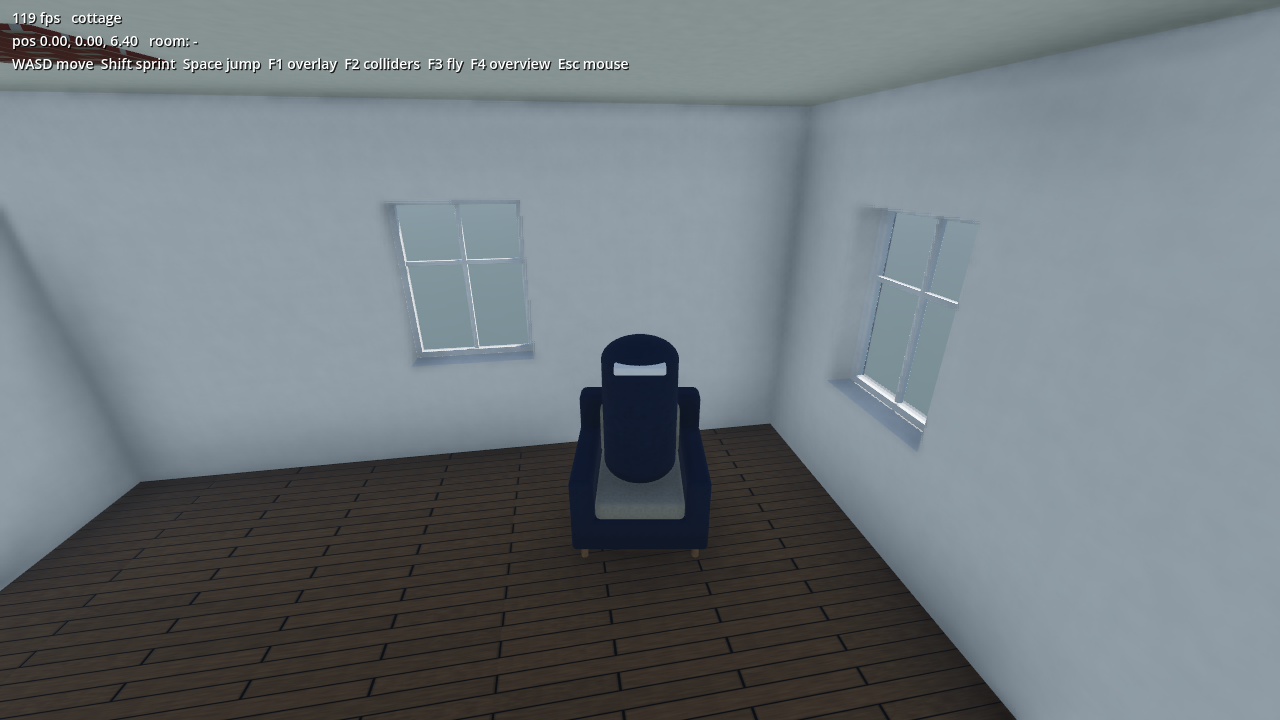
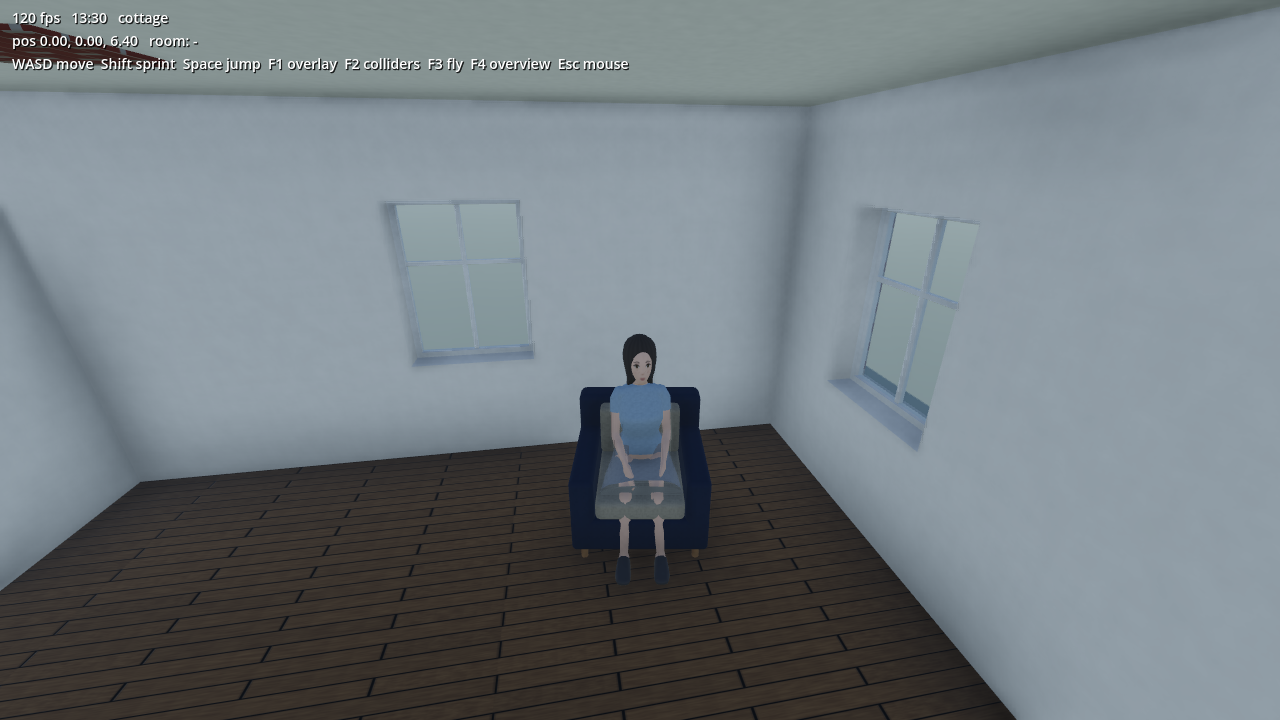
Milestone: the cottage resident is a young woman (README, screenshots)
README's NPC section shows the archetype-drawn resident walking, resting in
the armchair and on the doorstep (Godot follow-camera screenshots), and
docs/make_screenshots.sh regenerates the three shots.

diff --git a/README.md b/README.md
@@ -17,13 +17,13 @@ The goal is nested, generated worlds: cities that contain neighbourhoods that co
 **Walking the town in Godot**: the district streams in chunks around the player (left). Buildings have furnished interiors, like the hotel lobby (right):
 
 | Streamed street | Hotel lobby |
-|---|---|
+|---|---|---|
 | ![Godot town street](docs/images/godot_town_street.png) | ![Godot hotel lobby](docs/images/godot_hotel_lobby.png) |
 
 **Hotel**: a multi-storey building generated from floor-plan layouts: a lobby floor, guest floors, scissor stairs, a working lift, a façade and a roof (left). A guest room furnished by the furnishing solver, shown with the ceiling cut away (right):
 
 | Hotel | Furnished room (cutaway) |
-|---|---|
+|---|---|---|
 | ![Hotel](docs/images/geogen_hotel.png) | ![Hotel room](docs/images/geogen_hotel_room.png) |
 
 **Park**: seeded scatter placement of space-colonisation trees and displaced rocks around a cottage and a lamp-lit path:
@@ -43,20 +43,20 @@ The goal is nested, generated worlds: cities that contain neighbourhoods that co
 ![Dining set](docs/images/geogen_dining_set.png)
 
 | Chair | Room |
-|---|---|
+|---|---|---|
 | ![Chair](docs/images/geogen_chair.png) | ![Room](docs/images/geogen_room.png) |
 
 **Godot runtime**: the cottage exported with `--export-godot` and walked in first person (left); F2 shows the collision shapes (right):
 
 | First person | Collider wireframes |
-|---|---|
+|---|---|---|
 | ![Godot first person](docs/images/godot_first_person.png) | ![Godot colliders](docs/images/godot_colliders.png) |
 
-**NPCs**: the cottage has a resident (a placeholder capsule body for now). Everything they do is data: the furniture, windows and door advertise what can be done there, and the Godot runtime just scores those offers against the resident's needs and runs the chosen action's steps. Here they're resting in the armchair (left) and have opened the front door to step outside (right):
+**NPCs**: the cottage has a resident, a young woman drawn from a character archetype (skinned body, painted face, hair and clothes), walking with procedural clips. Everything she does is data: the furniture, windows and door advertise what can be done there, and the Godot runtime scores those offers against her needs and runs the chosen action's steps. Here she walks over to the armchair, rests in it, and later steps out of the front door:
 
-| Resting | On the doorstep |
-|---|---|
-| ![NPC in the armchair](docs/images/godot_npc_armchair.png) | ![NPC on the doorstep](docs/images/godot_npc_doorstep.png) |
+| Walking | Resting | On the doorstep |
+|---|---|---|
+| ![NPC walking](docs/images/godot_npc_walking.png) | ![NPC in the armchair](docs/images/godot_npc_armchair.png) | ![NPC on the doorstep](docs/images/godot_npc_doorstep.png) |
 
 **Interactive viewer** (Qt/OpenGL) viewport: shadows, PBR, grid, picking:
 
@@ -278,7 +278,7 @@ city:
 ## Architecture
 
 | Package | Contents |
-|---|---|
+|---|---|---|
 | `core/` | `SceneNode` hierarchy (with instancing), `Mesh` (material groups, vertex colours), `Transform`; `meshops` (normals, welding, tangents, decimation, `validate`), `uvmap` (metric projections), `profile` (2D shapes), `csg` (manifold3d booleans), `subdiv` (Loop subdivision, displacement) |
 | `generators/` | Primitives, profiles, sweeps, stairs, roofs, doors, floor plans and plan layouts, multi-storey buildings, façades, interior finishes, trees and rocks |
 | `textures/`, `materials/` | Tiling procedural texture generators; PBR materials loaded from `assets/materials/*.yaml` with a metric `tile_size` |
